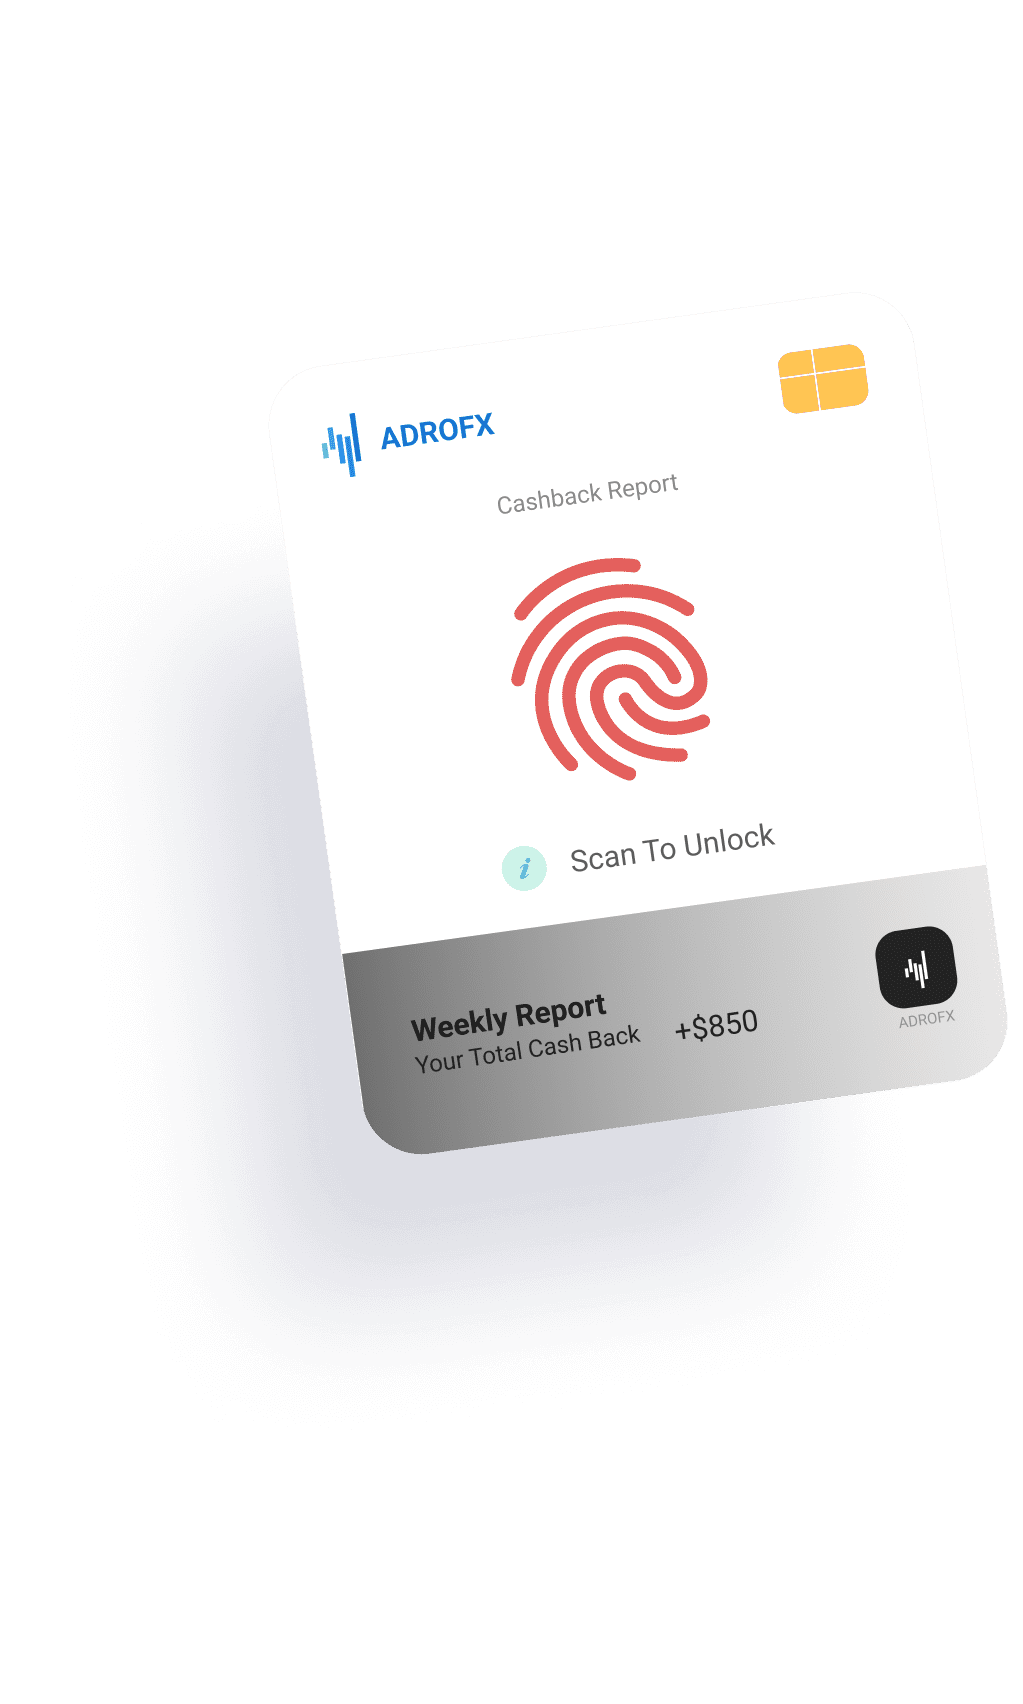
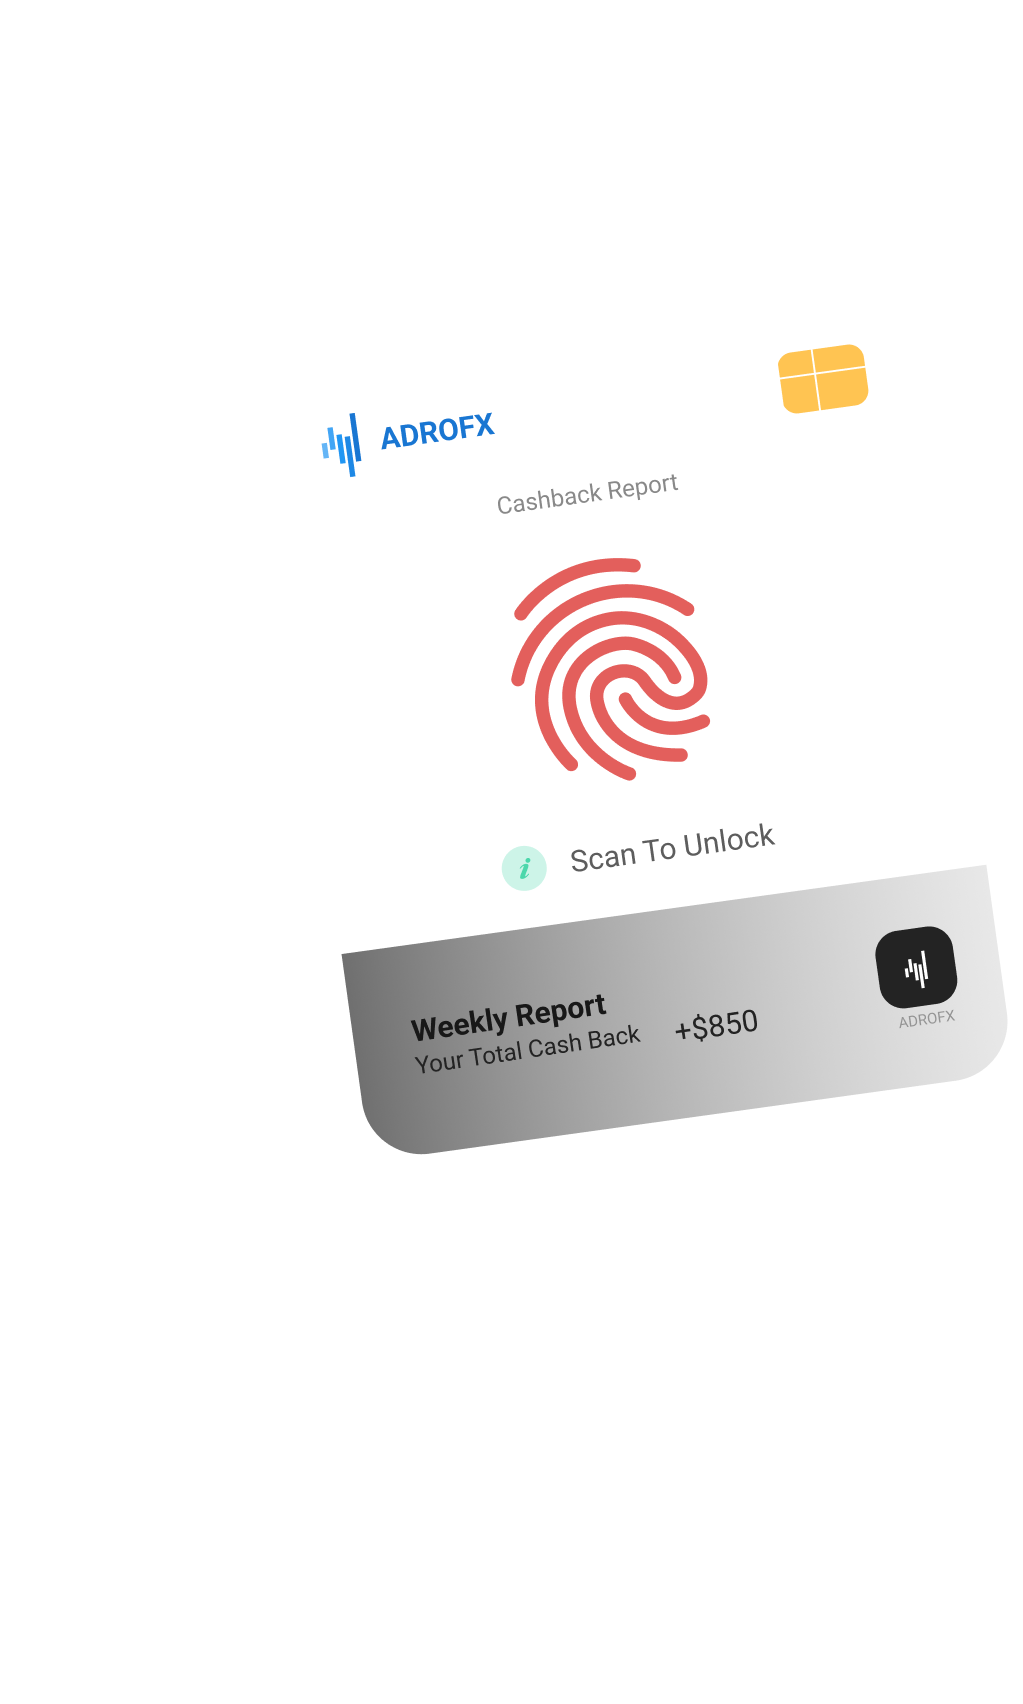
animation fix

Changed region(s): [[0.2121, 0.3732, 0.7576, 0.7465]]

diff --git a/css/template.css b/css/template.css
@@ -3730,7 +3730,7 @@ body:not(.page-node-type-periodical_publication) .slider .carousel-item {
 
 .right-sidebar .right-articles .item a {
     display: grid;
-    grid-template-areas: "image date""image title";
+    grid-template-areas: "image date" "image title";
     grid-column-gap: 15px;
     grid-row-gap: 5px;
     justify-content: start;
@@ -5470,7 +5470,7 @@ body:not(.page-node-type-periodical_publication) .slider .carousel-item {
     background: var(--grey100);
     position: relative;
     display: grid;
-    grid-template-areas: "icon title""icon description";
+    grid-template-areas: "icon title" "icon description";
     grid-template-columns: 1fr 4fr;
     grid-column-gap: 30px;
 }
@@ -7779,11 +7779,13 @@ html[lang="ru"] .liquidity-providers .main-information-header {
 
 .list.cashback-users {
     min-height: 60px;
+    min-width: 150px;
 }
 
 .wrapper.short-offer {
+    position: relative;
     opacity: 0%;
-    padding-left: 25%;
+    transform: translateX(-15%);
     transition: all 500ms cubic-bezier(0.1, 0.7, 0.6, 0.9) .3s;
 }
 
@@ -8593,6 +8595,15 @@ html[lang="ru"] .liquidity-providers .main-information-header {
         margin-bottom: 10px;
     }
 
+
+    .cashback-hero-center {
+        filter: drop-shadow(0px 80px 50px rgba(9, 19, 69, .08));
+    }
+
+    .cashback-hero-right {
+        filter: drop-shadow(0px 80px 50px rgba(9, 19, 69, .05));
+    }
+
 }
 
 @media (max-width: 991.98px) {
@@ -9238,12 +9249,12 @@ html[lang="ru"] .liquidity-providers .main-information-header {
 
 
     .list-features.cashback-features .list-features__item,
-    .list-features.cashback-structure .list-features__item {
+    .list-features.cashback-system .list-features__item {
         flex-basis: calc(100% / 2 - 5px);
     }
 
     .list-features.cashback-benefits .list-features__item:nth-child(-n + 2),
-    .list-features.cashback-structure .list-features__item:nth-child(-n +2) {
+    .list-features.cashback-system .list-features__item:nth-child(-n +2) {
         margin-bottom: 10px;
     }
 
@@ -11937,7 +11948,6 @@ html[lang="ru"] .liquidity-providers .main-information-header {
     }
 
 
-
     .buttons-container.cashback .btn-red-outline,
     .buttons-container.start .btn-red-outline,
     .buttons-container.cashback-system .btn-red-outline,
@@ -11954,7 +11964,6 @@ html[lang="ru"] .liquidity-providers .main-information-header {
     .cashback-header.hero {
         text-align: center;
     }
-
 
 
     .wrapper.short-offer {
@@ -12009,6 +12018,34 @@ html[lang="ru"] .liquidity-providers .main-information-header {
 
     .section-header.start {
         margin-top: 3rem;
+    }
+
+    .list.cashback-users {
+        min-width: calc(3 * 43px);
+    }
+ 
+
+    .list.cashback-users .list__item {
+        width: 43px;
+        height: 43px;
+    }
+
+    
+
+    .short-offer.cashback {
+        min-height: 100%;
+        max-width: 320px;
+        margin-inline: auto;
+ 
+    }
+
+    .short-offer__description {
+        font-size: 0.813rem;
+    }
+
+    .wrapper.short-offer {
+        width: 100%;
+        height: 100%;
     }
 
 }
@@ -12128,18 +12165,7 @@ html[lang="ru"] .liquidity-providers .main-information-header {
         font-size: 1.125rem;
     }
 
-    .short-offer.cashback {
-        flex-direction: column;
-    }
-
-    .list.cashback-users {
-        margin-bottom: 20px;
-    }
-
-    .wrapper.short-offer {
-        text-align: center;
-    }
-
+ 
 
     .cashback-header.hero .section-title {
         font-size: 1.375rem;

diff --git a/cashback-page.html b/cashback-page.html
@@ -818,15 +818,20 @@
                 const cashbackClients = document.querySelectorAll(".list.cashback-users .list__item");
                 const shortOffer = document.querySelector('.wrapper.short-offer')
 
-
                 for (i = 0; i < cashbackClients.length; i++) {
 
                     const position = cashbackClients[i].style.left = `${40 * i}px`
                     const opacity = cashbackClients[i].style.opacity = `${1 + i}`
+
+                    const paddingLeft = shortOffer.style.transform = `translateX(${10}%)`
+                    const opacityOffer = shortOffer.style.opacity = `${100}%`
+
+                    if (window.innerWidth <= 575) {
+                        cashbackClients[i].style.left = `${30 * i}px`
+                        shortOffer.style.transform = `translateX(${0}%)`
+                    }
                 }
 
-                const paddingLeft = shortOffer.style.paddingLeft = `${32}%`
-                const opacity = shortOffer.style.opacity = `${100}%`
             }
 
             cashbackOfferAnimation()
